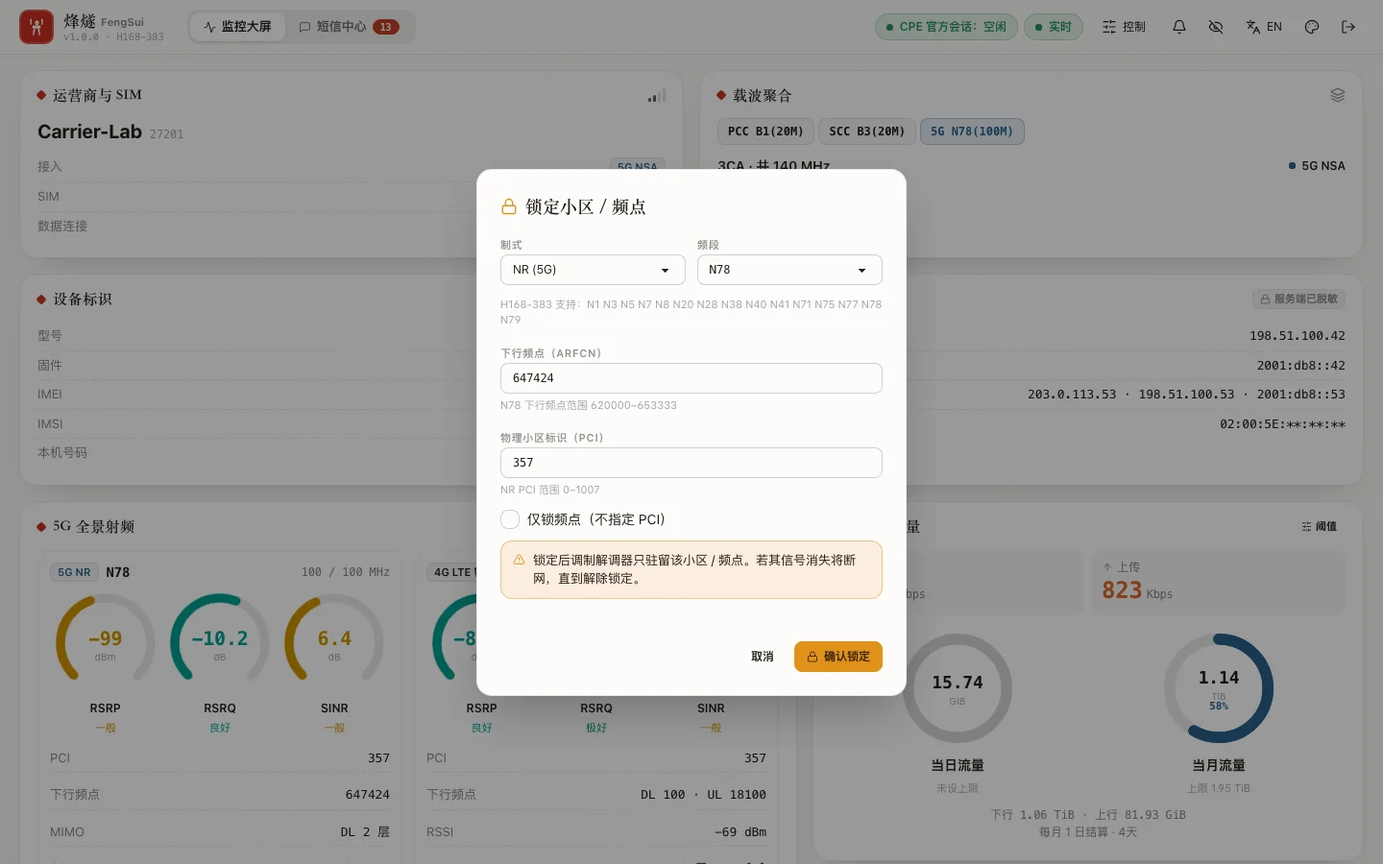
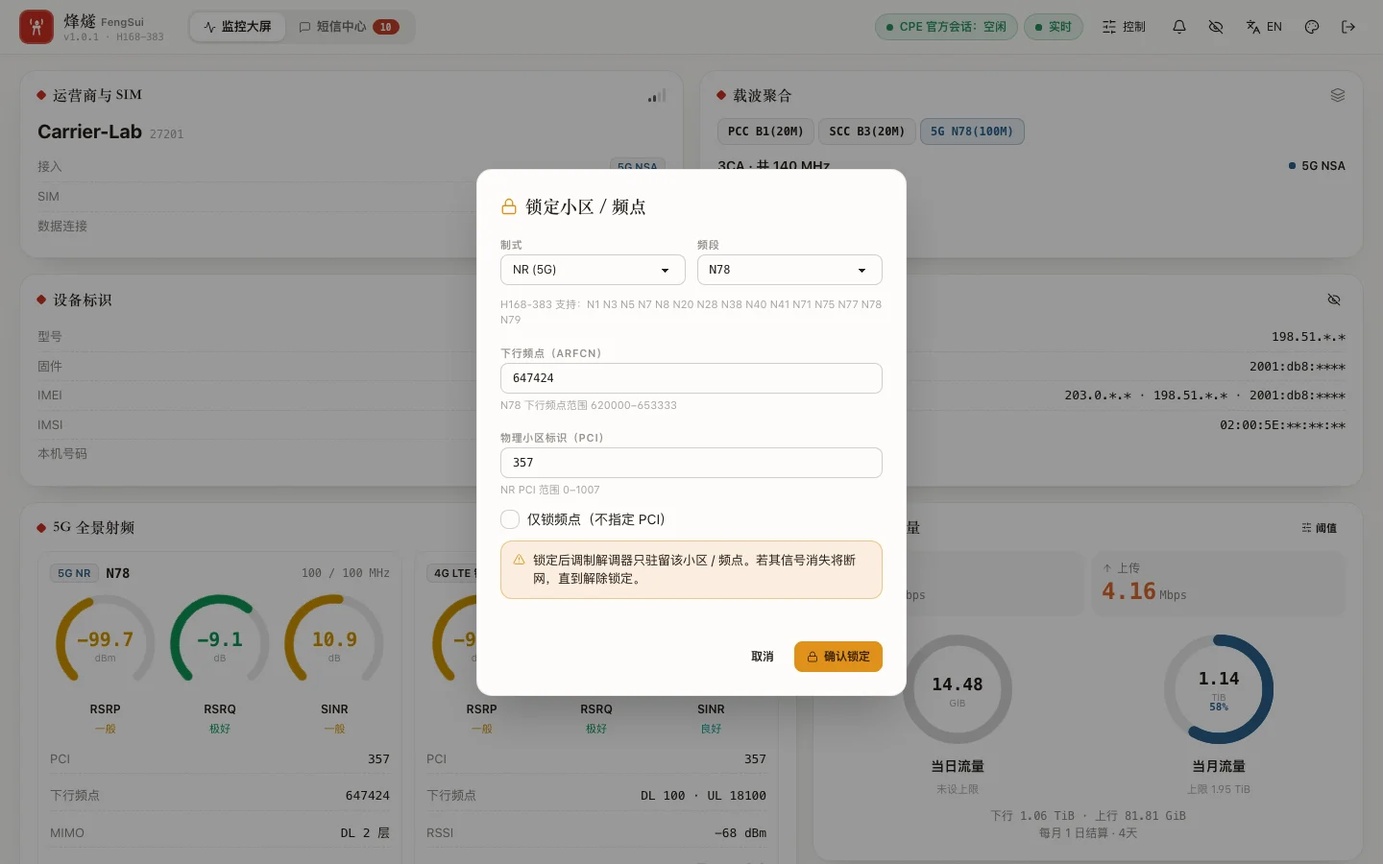
docs: describe per-caller redaction and refresh the UI screenshots for v1.0.1
- Backend contract: REDACT_SENSITIVE_IN_API now applies per caller (§1.2
  item 4): the cookie session gets plain values, Bearer REST / SSE and MCP
  get redacted copies with visible masks; field comments for device
  identifiers, RF fingerprints, topology hosts and the DMZ address; SSE
  per-subscriber redaction; MCP tools and the telemetry resource.
- Architecture report §7.5: the v1.0.0 problem, the layer-by-layer change,
  the legacy-cache drop and the tests that cover it.
- READMEs: the .env row, the MCP and REST notes, the identity-card wording,
  version badge, test count and first-paint size (59.5 KiB).
- .env.example and the AGENTS.md module tree (src/redact.ts).
- Screenshots retaken from npm run demo on the 1.0.1 build: the identity,
  network and RF cards now show the eye button instead of the removed
  "Redacted by server" badge, and the topology shows client names.

diff --git a/README_EN.md b/README_EN.md
@@ -10,7 +10,7 @@
 </p>
 
 <p align="center">
-  <a href="https://github.com/cky008/cpe-dash/releases"><img src="https://img.shields.io/badge/version-1.0.0-6E56CF?style=flat-square" alt="Version 1.0.0" /></a>
+  <a href="https://github.com/cky008/cpe-dash/releases"><img src="https://img.shields.io/badge/version-1.0.1-6E56CF?style=flat-square" alt="Version 1.0.1" /></a>
   <a href="https://github.com/cky008/cpe-dash/actions/workflows/ci-docker.yml"><img src="https://github.com/cky008/cpe-dash/actions/workflows/ci-docker.yml/badge.svg" alt="CI" /></a>
   <a href="tsconfig.json"><img src="https://img.shields.io/badge/TypeScript-100%25_Strict-3178C6?style=flat-square&logo=typescript&logoColor=white" alt="Strict TypeScript" /></a>
   <a href="#-docker--synology-ds923-deployment"><img src="https://img.shields.io/badge/Docker-amd64_|_arm64-2496ED?style=flat-square&logo=docker&logoColor=white" alt="Docker amd64 arm64" /></a>
@@ -31,7 +31,7 @@
 - **100% private, zero cloud dependencies**: All data stays on your NAS, encrypted at rest with `AES-256-GCM`; the Web console uses zero CDNs, zero external links, and works completely offline.
 - **Zero additional hardware cost**: Reuses your existing NAS and the CPE's built-in SMS capabilities without requiring SMS modems, USB dongles, or secondary devices.
 - **Production-grade container**: Non-root, read-only root filesystem, `HEALTHCHECK`, graceful shutdown via `SIGTERM` within 10 seconds while releasing router sessions; dual-architecture support for `linux/amd64` (DS923+) and `linux/arm64`.
-- **Zero runtime dependencies**: Daemon built entirely with native Node.js modules; repository-wide 100% strict TypeScript, 314 offline tests with 98% statement coverage.
+- **Zero runtime dependencies**: Daemon built entirely with native Node.js modules; repository-wide 100% strict TypeScript, 318 offline tests with 98% statement coverage.
 
 ---
 
@@ -79,7 +79,7 @@
 </table>
 
 ### Dashboard
-- **Top banner**: Branding and version, Dashboard / Messages toggle (unread badge), carrier and SIM status, IMEI / IMSI / phone number (masked by default, one-click toggle), WAN IPv4 / IPv6 / DNS / MAC (maskable), CPE session status (Idle / Human Admin Yielding / Tripped), SSE connection status, and alert bell.
+- **Top banner**: Branding and version, Dashboard / Messages toggle (unread badge), carrier and SIM status, IMEI / IMSI / phone number (masked on screen by default, the eye button reveals the real values), WAN IPv4 / IPv6 / DNS / MAC (maskable), CPE session status (Idle / Human Admin Yielding / Tripped), SSE connection status, and alert bell.
 - **3CA carrier aggregation pill**: e.g., `PCC B1(20M) + SCC B3(20M) + 5G N78(100M)`; SA / NSA pulsing badge.
 - **RF cards**: Per-carrier PCI, ARFCN, bandwidth; graded circular gauges for RSRP / RSRQ / SINR; TAC, eNodeB, MIMO rank/streams, uplink/downlink modulation; PUSCH / PUCCH transmit power bars.
 - **Health card**: Uptime, connected client count, lock status, and lock reconciliation (verifying whether router state matches configured band / cell locks).
@@ -96,7 +96,7 @@
 
 ### Visuals and Engineering
 - Four themes: **Paper** (light Xuan paper), **Dawn** (warm light), **Polar Night** (deep black), and **Violet Abyss** (geek dark purple), with six accent colors and system dark/light mode following; instant English/Chinese switching with local preference persistence.
-- First-load JS + CSS is only **59.8 KiB gzip** (including one language); Messages, Controls drawer, etc., are lazy-loaded on demand; strict CSP (`script-src 'self'`, no inline scripts), zero usage of `innerHTML`.
+- First-load JS + CSS is only **59.5 KiB gzip** (including one language); Messages, Controls drawer, etc., are lazy-loaded on demand; strict CSP (`script-src 'self'`, no inline scripts), zero usage of `innerHTML`.
 - SSE auto-reconnect with jittered exponential backoff; `423` breaker tripped, `409` yielding, and `503` shutdown present distinct UI states, never lumped together as "offline".
 
 ---
@@ -416,7 +416,7 @@ Claude Code: `claude mcp add --transport http fengsui http://<NAS IP>:18384/mcp 
 | SMS (`MCP_SMS_ACCESS=read`, default) | `list_sms_threads`, `get_sms_thread`, `get_sms_status`, `search_contacts`, `preview_sms`, `sync_sms` |
 | SMS (`MCP_SMS_ACCESS=full`) | Appends `send_sms`†, `mark_sms_read`, `delete_sms`†, `upsert_contact` |
 
-† Must explicitly pass `{ "confirm": true }`. All input parameters are strictly validated on the server against `inputSchema`; band locks only accept bands supported by the H168-383; `lock_cell` can only lock to previously observed cells (serving cell, aggregated carriers, or latest neighbor scan), preventing model hallucinations from causing network outages. SMS bodies and sender names are treated as untrusted data; `send_sms` targets a single recipient, defaults to known contacts only (`MCP_SMS_SEND_POLICY=known`), enforces hourly limits, and `delete_sms` refuses to delete unread messages by default. When `MCP_ALLOW_MUTATIONS=false`, only observational tools are exposed.
+† Must explicitly pass `{ "confirm": true }`. With `REDACT_SENSITIVE_IN_API=true` (the default), `get_cpe_telemetry`, `list_terminal_topology` and the `fengsui://telemetry/latest` resource return redacted copies: the IMEI keeps its first 6 digits, the IMSI only the operator code, WAN addresses their first two parts, and TAC / Cell ID / eNodeB and client names read `<REDACTED>`, so the data can go to a cloud model. All input parameters are strictly validated on the server against `inputSchema`; band locks only accept bands supported by the H168-383; `lock_cell` can only lock to previously observed cells (serving cell, aggregated carriers, or latest neighbor scan), preventing model hallucinations from causing network outages. SMS bodies and sender names are treated as untrusted data; `send_sms` targets a single recipient, defaults to known contacts only (`MCP_SMS_SEND_POLICY=known`), enforces hourly limits, and `delete_sms` refuses to delete unread messages by default. When `MCP_ALLOW_MUTATIONS=false`, only observational tools are exposed.
 
 ### Error Codes
 
@@ -490,7 +490,7 @@ const expected = "sha256=" + crypto.createHmac("sha256", secret).update(`${req.h
 | **Real-Time SSE** | `GET /api/events` | `hello`, `speed`, `telemetry`, `neighbors`, `topology`, `settings`, `session:avoidance`, `control:applied`, `alert`, `sms:new`, `sms:sent`, `sms:updated`, `sms:sync`, `sms:status`, `contacts:updated`, and heartbeats |
 | **Health Check** | `GET /api/health` | Unauthenticated endpoint for `HEALTHCHECK` and monitoring |
 
-State-mutating requests must include `X-Requested-With: XMLHttpRequest` and `Content-Type: application/json`. REST / SSE payload types are defined in [`src/api-contract.ts`](src/api-contract.ts) (validated on the backend with `satisfies` and reused directly by the Web frontend); see [`docs/PHASE2_BACKEND_CONTRACT.md`](docs/PHASE2_BACKEND_CONTRACT.md) for full contract.
+State-mutating requests must include `X-Requested-With: XMLHttpRequest` and `Content-Type: application/json`. The logged-in web console (cookie session) always receives the real values and masks them on screen; scripts and SSE subscribers using `Authorization: Bearer` get the same redacted copies as MCP while `REDACT_SENSITIVE_IN_API=true`. REST / SSE payload types are defined in [`src/api-contract.ts`](src/api-contract.ts) (validated on the backend with `satisfies` and reused directly by the Web frontend); see [`docs/PHASE2_BACKEND_CONTRACT.md`](docs/PHASE2_BACKEND_CONTRACT.md) for full contract.
 
 ---
 
@@ -515,7 +515,7 @@ Full template available in [`.env.example`](.env.example). The daemon reads only
 | `MCP_ALLOW_MUTATIONS` | `true` | Whether to allow MCP to invoke mutation tools |
 | `MCP_DAEMON_URL` | *(Derived from `WEB_HOST`/`WEB_PORT`)* | Address of `/mcp` forwarded by stdio bridge; restricted to LAN / loopback hosts |
 | `PEER_DISCOVERY_ENABLED` / `PEER_DISCOVERY_PORT` | `true` / `18385` | Cross-host duplicate daemon protection (signed UDP broadcast beacon; requires host networking in Docker) |
-| `REDACT_SENSITIVE_IN_API` | `true` | Masks IMEI, IMSI, phone number, MAC, and TAC / CellID location fingerprints in API / MCP output by default |
+| `REDACT_SENSITIVE_IN_API` | `true` | Redacts IMEI, IMSI, phone number, MAC, WAN addresses and TAC / CellID location fingerprints in Bearer API, SSE and MCP output. The web console is not affected: it always receives the real values, masked on screen until you click the eye button. Applies after a restart or `reset-breaker` |
 | `SSE_HEARTBEAT_MS` / `SSE_MAX_CLIENTS` | `15000` / `32` | SSE heartbeat interval and maximum concurrent connections |
 | `POLL_INTERVAL_MS` | `5000` | Telemetry and real-time throughput sampling interval |
 | `NEIGHBOR_SCAN_INTERVAL_MS` | `60000` | Neighbor cell scan interval |

diff --git a/docs/PHASE2_BACKEND_CONTRACT.md b/docs/PHASE2_BACKEND_CONTRACT.md
@@ -27,6 +27,11 @@
 2. **自动化脚本与 Streamable HTTP MCP 客户端（Bearer Token）**：
    - 请求头：`Authorization: Bearer <API_TOKEN>`（服务端采用 `SHA-256` 定长摘要 + `crypto.timingSafeEqual` 常量时间比对）。
    - **排他鉴权规则**：一旦请求携带了 `Authorization` 头，服务端**仅**验证 Bearer Token，绝不回退读取 Cookie。`/mcp` 端点只接受 Bearer。
+4. **`REDACT_SENSITIVE_IN_API` 按调用方生效（v1.0.1 起）**：守护进程内部与加密落盘的快照始终保存原值，脱敏只发生在输出边界（[`src/redact.ts`](../src/redact.ts)）。
+   - **Cookie 会话（Web 控制台）始终拿到原值**：前端默认在屏幕上掩码，由用户点眼睛按钮显示（防截图）。
+   - **Bearer 调用方（REST、`/api/events` SSE）与 MCP 工具 / 资源**：开关为 `true`（默认）时收到脱敏副本，`device.sensitiveRedacted` 为 `true`；为 `false` 时与 Web 控制台相同。
+   - 脱敏副本只用一眼可辨的掩码，不再用以假乱真的占位值：IMEI 留前 6 位、IMSI 留 MCC+MNC、本机号码 `+353*******00`、MAC 留厂商 OUI、WAN / DNS 地址留前两段（`198.51.*.*`、`2001:db8:****`）、TAC / Cell ID / eNodeB 为 `<REDACTED>`；终端拓扑的设备名为 `<REDACTED>`、MAC 留 OUI、IPv6 留前两组，局域网 IPv4 原样保留（用于区分终端）。邻区、路由器配置（含 DMZ 地址）与时序数据不含此类标识，不做脱敏。
+   - 修改该值后可重启，或调用 `POST /api/session/reset-breaker` 立即对 REST、SSE 与 MCP 生效。v1.0.0 在采集时就已脱敏的缓存快照，升级后首次启动时直接丢弃，等待下一次采集。
 3. **鉴权失败限流（`429 RATE_LIMITED`）**：按客户端 IP 桶统计滑动窗口内的鉴权失败次数（`RATE_LIMIT_WINDOW_MS` 默认 `60000`；`RATE_LIMIT_MAX_AUTH_FAILURES` 默认 `8`、最小 `3`），另设全局失败上限（单桶上限 × `8`）。超限时响应附带 `retryAfterSec` 字段与 `Retry-After` 头；已被限流的桶在窗口滑出前即使提交正确凭据也会被拒绝。
 
 ### 1.3 前端状态变更请求强制 CSRF 契约（Phase 3 前端必读！）
@@ -242,7 +247,7 @@ export interface GlobalTelemetrySnapshot {
     webUiVersion: string;
     uptimeSec: number;
     workMode: string;
-    wanIpv4: string;            // 按 REDACT_SENSITIVE_IN_API 脱敏或原样输出
+    wanIpv4: string;            // 原值；Bearer / MCP 脱敏副本为 "198.51.*.*"（见 1.2 节第 4 条）
     wanDnsV4: string[];
     wanIpv6: string;
     wanDnsV6: string[];
@@ -250,13 +255,13 @@ export interface GlobalTelemetrySnapshot {
     signalIconBars: number;     // 0..5
     simStatus: string;
     // Phase 3：/api/device/information 中的设备与 SIM 标识（固件未返回时为 ""，不额外发起请求）。
-    // REDACT_SENSITIVE_IN_API=true 时在离开守护进程前按 src/privacy-mask.ts 部分掩码：
+    // Web 控制台收到原值；Bearer / MCP 在 REDACT_SENSITIVE_IN_API=true 时收到 src/privacy-mask.ts 的部分掩码：
     // IMEI 仅留前 6 位、IMSI 仅留 MCC+MNC 5 位、本机号码 "+353*******00"、MAC 仅留厂商 OUI
-    imei: string;               // e.g. "860000*********"
-    imsi: string;               // e.g. "27201**********"
+    imei: string;               // e.g. "860000000000000"，脱敏副本 "860000*********"
+    imsi: string;               // e.g. "272010000000000"，脱敏副本 "27201**********"
     msisdn: string;             // SIM 写入的本机号码，多数 SIM 为空
-    macAddress: string;         // <WanMacAddress>，缺失时取 <MacAddress1>，e.g. "02:00:5E:**:**:**"
-    sensitiveRedacted: boolean; // true = 上述标识、WAN 地址与 DNS 已在服务端脱敏（前端无法再还原明文）
+    macAddress: string;         // <WanMacAddress>，缺失时取 <MacAddress1>；脱敏副本 "02:00:5E:**:**:**"
+    sensitiveRedacted: boolean; // true = 这是 Bearer / MCP 的脱敏副本（上述标识、WAN 地址与 DNS 已掩码）；Web 控制台恒为 false
   };
   rf: {
     operatorName: string;
@@ -317,9 +322,9 @@ export interface GlobalTelemetrySnapshot {
       rssiDbm: number | null;
       sinrDb: number | null;
     }>;
-    cellIdDisplay: string;
-    eNodeBDisplay: string;
-    tacDisplay: string;
+    cellIdDisplay: string;      // 十进制原值；Bearer / MCP 脱敏副本为 "<REDACTED>"
+    eNodeBDisplay: string;      // 同上
+    tacDisplay: string;         // 同上
     identityVerification: {
       hasCellIdDecimal: boolean;
       hasCellInfoHex: boolean;
@@ -534,8 +539,8 @@ export type TerminalAccessMedium =
   | "WIFI_OTHER";
 
 export interface TerminalHostEntry {
-  macAddress: string;
-  displayName: string;
+  macAddress: string;           // 原值；Bearer / MCP 脱敏副本只留厂商 OUI（"00:00:5E:**:**:**"）
+  displayName: string;          // 原值；Bearer / MCP 脱敏副本为 "<REDACTED>"
   active: boolean;
   interfaceType: string;
   layer2Interface: string;
@@ -543,8 +548,8 @@ export interface TerminalHostEntry {
   medium: TerminalAccessMedium;
   negotiatedRateMbps: number | null;
   rssi: number | null;
-  ipv4Address: string;
-  ipv6Addresses: string[];
+  ipv4Address: string;          // 局域网地址，始终原样输出
+  ipv6Addresses: string[];      // 原值；Bearer / MCP 脱敏副本留前两组（"2001:db8:****"）
   ipv6Active: boolean;
   addressSource: string;
   leaseTimeRemainingSec: number | null;
@@ -581,7 +586,7 @@ export interface RouterSettingsSnapshot {
   capturedAtMs: number;
   upnpEnabled: boolean;
   dmzEnabled: boolean;
-  dmzIpAddress: string;         // REDACT_SENSITIVE_IN_API=true 时，192.168.8.x 原样保留，其他地址按脱敏规则映射
+  dmzIpAddress: string;         // 局域网地址，始终原样输出（v1.0.1 起不再映射）
   firewall: {
     mainSwitch: boolean;
     ipFilterSwitch: boolean;
@@ -846,6 +851,7 @@ export interface ChannelDeliveryStats {
 - **端点与鉴权**：`GET /api/events`，鉴权方式与其他 `/api/*` 路由相同。浏览器使用原生 `new EventSource("/api/events", { withCredentials: true })` 自动复用 `HttpOnly` Cookie；脚本可使用 Bearer 头。
 - **连接上限**：全局 `SSE_MAX_CLIENTS`（默认 `32`），单 IP 桶（IPv6 为 `/64`）`6` 条；超限返回 `429 SSE_LIMIT_REACHED`。
 - **首帧推送**：连入瞬间立即依次下发 `hello`（含短信状态快照）、`session:avoidance`（反映当前状态，未避让时 `active: false`），若已有缓存遥测再下发 `telemetry`，无需等待 `5s` 轮询定时器。
+- **按订阅方脱敏**：Cookie 订阅者（Web 控制台）收到原值；`REDACT_SENSITIVE_IN_API=true` 时，Bearer 订阅者收到的 `hello` 内遥测、`telemetry` 与 `topology` 事件均为脱敏副本（规则见 1.2 节第 4 条）。同一事件对两类订阅者使用相同的 `id`。
 - **帧格式**：`id: <自增序号>\nevent: <name>\ndata: <单行 JSON>\n\n`。服务端**不支持** `Last-Event-ID` 断点续传；重连后应以新的 `hello` 快照重建前端状态（`neighbors` / `topology` / `settings` 需另行调用对应 `GET` 接口补齐）。
 - **心跳保活帧**：每隔 `SSE_HEARTBEAT_MS`（默认 `15000ms`，最小 `3000ms`）写入标准 SSE 注释行：
   ```text
@@ -951,6 +957,7 @@ export interface AvoidanceBroadcastPayload {
 ### 4.2 暴露的 13 项 MCP Tools 与 3 项 Resources
 - **只读观测类（6 项，`readOnlyHint: true`）**：`get_cpe_telemetry`、`query_telemetry_history`、`list_neighbor_cells`、`get_cpe_session_status`、`list_terminal_topology`、`get_router_settings`。
   - `get_cpe_telemetry` / `list_terminal_topology` / `get_router_settings`：传入 `refresh: true` 或缓存为空时触发一次瞬时采集。
+  - `get_cpe_telemetry`、`list_terminal_topology` 与资源 `fengsui://telemetry/latest` 在 `REDACT_SENSITIVE_IN_API=true`（默认）时返回脱敏副本（规则见 1.2 节第 4 条），设为 `false` 后返回原值。
   - `list_neighbor_cells`：`scanNow: true` 强制扫描；省略时仅在缓存为空时扫描；`scanNow: false` 只读缓存。
   - `query_telemetry_history`：参数与校验规则同 `GET /api/timeseries`。
 - **射频与系统控制类（7 项，均标注 `destructiveHint: true`）**：`lock_band`、`lock_cell`、`unlock_rf_locks`、`set_security_switches`、`set_wifi_and_antenna`、`reconnect_cellular`（强制 `confirm: true`）、`reboot_cpe`（强制 `confirm: true`）。

diff --git a/README.md b/README.md
@@ -10,7 +10,7 @@
 </p>
 
 <p align="center">
-  <a href="https://github.com/cky008/cpe-dash/releases"><img src="https://img.shields.io/badge/version-1.0.0-6E56CF?style=flat-square" alt="Version 1.0.0" /></a>
+  <a href="https://github.com/cky008/cpe-dash/releases"><img src="https://img.shields.io/badge/version-1.0.1-6E56CF?style=flat-square" alt="Version 1.0.1" /></a>
   <a href="https://github.com/cky008/cpe-dash/actions/workflows/ci-docker.yml"><img src="https://github.com/cky008/cpe-dash/actions/workflows/ci-docker.yml/badge.svg" alt="CI" /></a>
   <a href="tsconfig.json"><img src="https://img.shields.io/badge/TypeScript-100%25_Strict-3178C6?style=flat-square&logo=typescript&logoColor=white" alt="Strict TypeScript" /></a>
   <a href="#-docker--群晖-ds923-部署"><img src="https://img.shields.io/badge/Docker-amd64_|_arm64-2496ED?style=flat-square&logo=docker&logoColor=white" alt="Docker amd64 arm64" /></a>
@@ -31,7 +31,7 @@
 - **100% 私有化，零上云**：全部数据只在你的 NAS 上，`AES-256-GCM` 加密落盘；Web 控制台零 CDN、零外链，离线可用。
 - **0 额外硬件成本**：复用现有 NAS 与 CPE 自带的短信能力，不需要短信猫、USB 模块或第二台设备。
 - **生产级容器**：非 root、只读根文件系统、`HEALTHCHECK`、`SIGTERM` 10 秒内优雅停机并释放路由器会话；`linux/amd64`（DS923+）与 `linux/arm64` 双架构。
-- **零运行时依赖**：守护进程只用 Node.js 原生模块；全仓 100% 严格 TypeScript，314 项离线测试、语句覆盖率 98%。
+- **零运行时依赖**：守护进程只用 Node.js 原生模块；全仓 100% 严格 TypeScript，318 项离线测试、语句覆盖率 98%。
 
 ---
 
@@ -79,7 +79,7 @@
 </table>
 
 ### 监控大屏
-- **顶部横幅**：品牌与版本、监控大屏 / 短信中心切换（未读角标）、运营商与 SIM 状态、IMEI / IMSI / 本机号码（默认脱敏，一键显隐）、WAN IPv4 / IPv6 / DNS / MAC（可脱敏）、CPE 会话状态（空闲 / 真人避让 / 熔断）、SSE 连接状态与告警铃。
+- **顶部横幅**：品牌与版本、监控大屏 / 短信中心切换（未读角标）、运营商与 SIM 状态、IMEI / IMSI / 本机号码（默认打码，点眼睛显示原值）、WAN IPv4 / IPv6 / DNS / MAC（可打码）、CPE 会话状态（空闲 / 真人避让 / 熔断）、SSE 连接状态与告警铃。
 - **3CA 载波聚合胶囊**：如 `PCC B1(20M) + SCC B3(20M) + 5G N78(100M)`；SA / NSA 呼吸徽章。
 - **射频卡**：逐载波 PCI、ARFCN、带宽；RSRP / RSRQ / SINR 分级圆环；TAC、eNodeB、MIMO 流数、上下行调制方式；PUSCH / PUCCH 发射功率条。
 - **健康卡**：在线时长、在线终端数、锁定状态与锁定对账（路由器是否仍符合已下发的锁频 / 锁小区）。
@@ -96,7 +96,7 @@
 
 ### 外观与工程
 - 四套主题：**素纸**（浅色宣纸）、**晨曦**（温润暖色）、**极夜**（深黑）、**紫溟**（极客暗紫），六种强调色，可跟随系统明暗；中英文即时切换，偏好本地持久化。
-- 首屏 JS + CSS 仅 **59.8 KiB gzip**（含一种语言），短信中心、控制抽屉等按需懒加载；严格 CSP（`script-src 'self'`，无内联脚本），全程不使用 `innerHTML`。
+- 首屏 JS + CSS 仅 **59.5 KiB gzip**（含一种语言），短信中心、控制抽屉等按需懒加载；严格 CSP（`script-src 'self'`，无内联脚本），全程不使用 `innerHTML`。
 - SSE 断线带抖动的指数退避自动重连；`423` 熔断、`409` 避让、`503` 停机分别给出不同的界面状态，绝不笼统显示为「离线」。
 
 ---
@@ -416,7 +416,7 @@ Claude Code：`claude mcp add --transport http fengsui http://<NAS IP>:18384/mcp
 | 短信（`MCP_SMS_ACCESS=read`，默认） | `list_sms_threads`、`get_sms_thread`、`get_sms_status`、`search_contacts`、`preview_sms`、`sync_sms` |
 | 短信（`MCP_SMS_ACCESS=full`） | 追加 `send_sms`†、`mark_sms_read`、`delete_sms`†、`upsert_contact` |
 
-† 必须显式传入 `{ "confirm": true }`。所有入参按 `inputSchema` 在服务端强校验；锁频段只接受 H168-383 支持的频段，`lock_cell` 只能锁定已观测到的小区（服务小区、聚合载波或最近一次邻区扫描），防止模型幻觉参数导致断网。短信正文与发件人名称一律标注为不可信数据，`send_sms` 单收件人、默认仅限已知号码（`MCP_SMS_SEND_POLICY=known`）并按小时限额，`delete_sms` 默认拒绝删除未读短信。`MCP_ALLOW_MUTATIONS=false` 时只暴露观测类能力。
+† 必须显式传入 `{ "confirm": true }`。`REDACT_SENSITIVE_IN_API=true`（默认）时，`get_cpe_telemetry`、`list_terminal_topology` 与资源 `fengsui://telemetry/latest` 返回脱敏副本：IMEI 只留前 6 位、IMSI 只留运营商代码、WAN 地址只留前两段，TAC / Cell ID / eNodeB 与终端名称为 `<REDACTED>`，便于把数据交给云端模型。所有入参按 `inputSchema` 在服务端强校验；锁频段只接受 H168-383 支持的频段，`lock_cell` 只能锁定已观测到的小区（服务小区、聚合载波或最近一次邻区扫描），防止模型幻觉参数导致断网。短信正文与发件人名称一律标注为不可信数据，`send_sms` 单收件人、默认仅限已知号码（`MCP_SMS_SEND_POLICY=known`）并按小时限额，`delete_sms` 默认拒绝删除未读短信。`MCP_ALLOW_MUTATIONS=false` 时只暴露观测类能力。
 
 ### 错误码
 
@@ -490,7 +490,7 @@ const expected = "sha256=" + crypto.createHmac("sha256", secret).update(`${req.h
 | **实时 SSE** | `GET /api/events` | `hello`、`speed`、`telemetry`、`neighbors`、`topology`、`settings`、`session:avoidance`、`control:applied`、`alert`、`sms:new`、`sms:sent`、`sms:updated`、`sms:sync`、`sms:status`、`contacts:updated` 与心跳 |
 | **健康检查** | `GET /api/health` | 免鉴权，供 `HEALTHCHECK` 与监控使用 |
 
-状态变更请求必须携带 `X-Requested-With: XMLHttpRequest` 与 `Content-Type: application/json`。REST / SSE 载荷类型定义在 [`src/api-contract.ts`](src/api-contract.ts)（服务端以 `satisfies` 校验，Web 前端直接复用），完整契约见 [`docs/PHASE2_BACKEND_CONTRACT.md`](docs/PHASE2_BACKEND_CONTRACT.md)。
+状态变更请求必须携带 `X-Requested-With: XMLHttpRequest` 与 `Content-Type: application/json`。登录后的 Web 控制台（Cookie 会话）始终拿到原值，由界面默认打码；用 `Authorization: Bearer` 调用的脚本与 SSE 订阅者在 `REDACT_SENSITIVE_IN_API=true` 时拿到与 MCP 相同的脱敏副本。REST / SSE 载荷类型定义在 [`src/api-contract.ts`](src/api-contract.ts)（服务端以 `satisfies` 校验，Web 前端直接复用），完整契约见 [`docs/PHASE2_BACKEND_CONTRACT.md`](docs/PHASE2_BACKEND_CONTRACT.md)。
 
 ---
 
@@ -515,7 +515,7 @@ const expected = "sha256=" + crypto.createHmac("sha256", secret).update(`${req.h
 | `MCP_ALLOW_MUTATIONS` | `true` | 是否允许 MCP 调用写操作工具 |
 | `MCP_DAEMON_URL` | *(由 `WEB_HOST`/`WEB_PORT` 推导)* | stdio 桥接转发的 `/mcp` 地址；只接受局域网 / 环回主机 |
 | `PEER_DISCOVERY_ENABLED` / `PEER_DISCOVERY_PORT` | `true` / `18385` | 跨主机重复守护进程保护（签名 UDP 广播信标；Docker 需 host 网络） |
-| `REDACT_SENSITIVE_IN_API` | `true` | API / MCP 输出默认脱敏 IMEI、IMSI、本机号码、MAC 与 TAC / CellID 等位置指纹 |
+| `REDACT_SENSITIVE_IN_API` | `true` | 对 Bearer API、SSE 与 MCP 输出脱敏 IMEI、IMSI、本机号码、MAC、WAN 地址与 TAC / CellID 等位置指纹。Web 控制台不受影响：始终收到原值，界面默认打码、点眼睛显示。修改后重启或调用 `reset-breaker` 生效 |
 | `SSE_HEARTBEAT_MS` / `SSE_MAX_CLIENTS` | `15000` / `32` | SSE 心跳间隔与最大并发连接数 |
 | `POLL_INTERVAL_MS` | `5000` | 遥测与实时速率采样周期 |
 | `NEIGHBOR_SCAN_INTERVAL_MS` | `60000` | 邻区扫描周期 |

diff --git a/docs/PHASE2_ARCHITECTURE_REPORT.md b/docs/PHASE2_ARCHITECTURE_REPORT.md
@@ -74,7 +74,7 @@ flowchart TD
 | **4. 跨站请求伪造 (CSRF) 与同站跨端口隔离** | 外网恶意页面或群晖同 IP 其他容器端口（RFC 6265 Cookie 不隔离端口）伪造状态变更请求 | ① 会话 Cookie (`fengsui_sid`) 强制设置 `HttpOnly; SameSite=Strict; Path=/`（TLS 或可信 HTTPS 反代下追加 `Secure`），登录成功强制轮换全新随机 Session ID；<br/>② 不下发任何宽松 CORS 响应头并拒绝跨源 `OPTIONS` 预检，使同 IP 异端口无法附加自定义头；<br/>③ Cookie 鉴权下的状态变更（`POST`/`PUT`/`DELETE`）强制校验 `X-Requested-With: XMLHttpRequest`、`Content-Type: application/json` 及精确 `URL.origin` 同源匹配（显式拦截 `Origin: null`），且所有 `GET` 路由严格保持只读无副作用（刷新/扫描操作均走 `POST`）；<br/>④ 当请求携带 `Authorization: Bearer` 时严格走独立令牌通道（忽略 Cookie）；口令与令牌统一经 SHA-256 定长摘要后执行 `crypto.timingSafeEqual`。 |
 | **5. DNS 重绑定攻击 (DNS Rebinding)** | 攻击者域名 TTL 过期重绑定至 `127.0.0.1` 或 NAS 局域网 IP，绕过单纯 `Origin === Host` 比对攻击本地 `/api/*` 或 `/mcp` | 接入层在路由分发前优先校验 `Host` 头：仅放行合法局域网/私网 IP、本机 `localhost`/单标签主机名、`.local`/`.lan`/`.ts.net` 或 `.env` 显式配置的 `ALLOWED_HOSTS`，其余一律立即返回 `421 Misdirected Request`；即使是 `127.0.0.1` 回环请求也绝不豁免鉴权。 |
 | **6. 伪造反向代理头绕过限流 (XFF Spoofing)** | 攻击者伪造随机 `X-Forwarded-For` 或 IPv6 SLAAC 临时地址绕过 `/api/auth/login` 防爆破限流 | 基于 Node 原生 `net.BlockList` 升级 [`resolveClientIp()`](../src/config.ts)，原生支持单 IP 与 CIDR 网段（如 `172.16.0.0/12`），逐跳执行 `net.isIP` 合法性校验；未命中 `TRUSTED_PROXIES` 时彻底忽略转发头，并结合单 IP 桶（IPv6 归并至 `/64` 前缀）+ 全局失败预算双重限流。 |
-| **7. AI 智能体误触与提示词注入防护** | MCP 客户端误调用高危动作，或局域网终端恶意 `HostName` 夹带换行/提示词注入污染上下文 | ① `reboot_cpe` 等高危工具强制校验 `confirm === true` 且在真人避让期间返回礼貌拒绝（`409/423`），绝不排队延迟突袭重启；<br/>② MCP 输出默认对敏感蜂窝位置指纹（IMEI/IMSI/TAC/CellID）执行 [`sanitize.ts`](../src/sanitize.ts) 脱敏，并对外部不可信文本进行结构化 JSON 封装隔离；SSE 数据帧强制单行 `JSON.stringify` 阻断 `\n\nevent:` 帧注入。 |
+| **7. AI 智能体误触与提示词注入防护** | MCP 客户端误调用高危动作，或局域网终端恶意 `HostName` 夹带换行/提示词注入污染上下文 | ① `reboot_cpe` 等高危工具强制校验 `confirm === true` 且在真人避让期间返回礼貌拒绝（`409/423`），绝不排队延迟突袭重启；<br/>② MCP 与 Bearer API 输出默认对 IMEI/IMSI/TAC/CellID 等敏感标识执行 [`redact.ts`](../src/redact.ts) 脱敏（v1.0.1 起按调用方生效，见 7.5 节），并对外部不可信文本进行结构化 JSON 封装隔离；SSE 数据帧强制单行 `JSON.stringify` 阻断 `\n\nevent:` 帧注入。 |
 
 ---
 
@@ -446,3 +446,22 @@ storage    state-store · encrypted-file · timeseries · sms/mirror · sms/cont
 2. **契约外的开关**：「仅 5G」网络模式与 DDoS 防御开关不在后端契约内。控制抽屉给出说明而不提供切换，以免 NSA 网络下断网。
 3. **Apple `container-compose`**：不对 `user:` 字段做变量插值，并忽略 `tmpfs`；README 给出字面量写法，Docker Compose 不受影响。
 4. **私有镜像**：GHCR 包随私有仓库默认为私有，拉取需要具备 `read:packages` 权限的令牌，或在 NAS 上本地构建。
+
+### 7.5 v1.0.1：`REDACT_SENSITIVE_IN_API` 改为按调用方生效
+
+**问题**：v1.0.0 在采集时脱敏（`fetchGlobalTelemetry` / `fetchTerminalTopology` 的 `redactSensitive` / `sanitize` 选项），快照进入缓存、SSE 与 REST 之前就已掩码。开关默认开启，于是 Web 控制台从未收到原值，顶栏与卡片上的眼睛按钮无法显示 IMEI、IMSI、本机号码、WAN 地址与基站指纹。部分字段还沿用了 Phase 1 探针的占位替换（[`sanitize.ts`](../src/sanitize.ts)）：私网 WAN 地址被改写成 `192.168.8.x`、DNS 显示为 `198.51.100.42`、终端显示为 `lan-client-NN` 并配文档保留 MAC 与 `fe80::1`。这些值看起来像真实数据。
+
+**改动**：
+
+| 层 | v1.0.0 | v1.0.1 |
+|---|---|---|
+| 采集与缓存（`CpeMonitor`、加密 `state.json`） | 按开关脱敏后存储 | 始终保存原值（落盘仍为 AES-256-GCM） |
+| Cookie 会话（Web 控制台）的 REST 与 SSE | 脱敏值 | 原值，前端默认屏幕掩码、按需显示 |
+| Bearer REST 与 SSE、MCP 工具与资源 | 脱敏值 | 开关为 `true` 时为 [`src/redact.ts`](../src/redact.ts) 生成的脱敏副本 |
+| 掩码形式 | 部分字段为以假乱真的占位值 | 一律为一眼可辨的掩码（前缀 + `*`、`<REDACTED>`） |
+| 修改开关 | 需重启 | 重启，或 `POST /api/session/reset-breaker` 对 REST、SSE、MCP 同时生效 |
+
+- SSE 为每个订阅者记录是否需要脱敏；同一事件的脱敏帧只在存在 Bearer 订阅者时生成一次，两类订阅者共用同一个事件 `id`。
+- 升级兼容：首次启动时，若缓存遥测带有 `sensitiveRedacted: true`（v1.0.0 在采集时脱敏的标志），连同同期的拓扑缓存一起丢弃，等待下一次采集，避免把占位值当真实数据展示。
+- 不变：探针（`scripts/probe-*.ts`）仍使用 `sanitize.ts` 的 RFC 占位替换，便于把输出贴进文档；邻区、路由器配置（含 DMZ 局域网地址）与时序数据不含个人标识，不做脱敏。
+- 测试：`test/device-identifiers.test.ts` 覆盖脱敏副本的每个字段与幂等性；`test/runtime.test.ts` 端到端验证 Cookie / Bearer REST、两类 SSE 订阅者、MCP 工具与资源、`reset-breaker` 热切换，以及旧缓存丢弃。

diff --git a/AGENTS.md b/AGENTS.md
@@ -19,7 +19,8 @@ cpe-dash/
 │   ├── config.ts           # 纯原生 .env 解析器、SSRF Origin 校验与强类型配置加载
 │   ├── crypto.ts           # 非钳位大端 Curve25519、Huawei SCRAM-SHA256、AES-256-GCM 双向加解密
 │   ├── xml.ts              # 防原型链污染与防 ReDoS 的线性安全 XML 编解码器（含 PreEscapedXmlText）
-│   ├── sanitize.ts         # 敏感标识符（IMEI/IMSI/MAC/IP/TAC/CellID/口令/手机号）自动化脱敏引擎
+│   ├── sanitize.ts         # 敏感标识符（IMEI/IMSI/MAC/IP/TAC/CellID/口令/手机号）自动化脱敏引擎（探针输出与抓包审计）
+│   ├── redact.ts           # REDACT_SENSITIVE_IN_API 输出边界：Bearer API / SSE / MCP 拿脱敏副本，Web 控制台拿原值
 │   ├── encrypted-file.ts   # StorageCipher: scrypt + HKDF-SHA256 + AES-256-GCM (0600) 落盘加密、原子写入与单进程文件锁
 │   ├── band-lock.ts        # 4G LTE / 5G NR BandMask 精确位运算与锁小区载荷构建器
 │   ├── parsers.ts          # 3CA 射频、邻区、双周期流量与终端拓扑纯函数解析器
